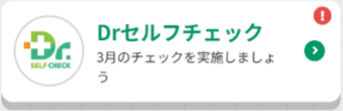
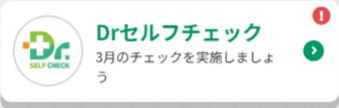
（軽微な修正）セルウェル問診誘導画面

diff --git a/contents/cellwell-self-check.html b/contents/cellwell-self-check.html
@@ -4,7 +4,7 @@
 <head>
     <meta charset="utf-8">
     <meta name="viewport" content="width=device-width, initial-scale=1" />
-    <title>base [Wellness]</title>
+    <title>セルフ問診 [Wellness]</title>
 
     <!-- css -->
     <link rel="stylesheet" href="../src/css/normalize.css">
@@ -13,10 +13,13 @@
 </head>
 
 <body>
-    <div style="width: 100vw; height: 100vh; display: flex; justify-content: space-between; align-items: center;">
-        <div style="margin: auto">
+    <div style="width: 100vw; height: 100vh; display: flex; flex-direction: column; justify-content: center; align-items: center;">
+        <p style="margin: 20px 30px;">
+            初回ログイン時、もしくは定期的に、下記のリンクからセルフ問診を行ってください。
+        </p>
+        <div>
             <a href="home.html">
-                <img src="../images/cellwell-self-check.png" alt="cellwell-self-check">
+                <img src="../images/cellwell-self-check.png" alt="cellwell-self-check" style="border-radius: 12px; border: 1px #222 solid;">
             </a>
         </div>
     </div>
